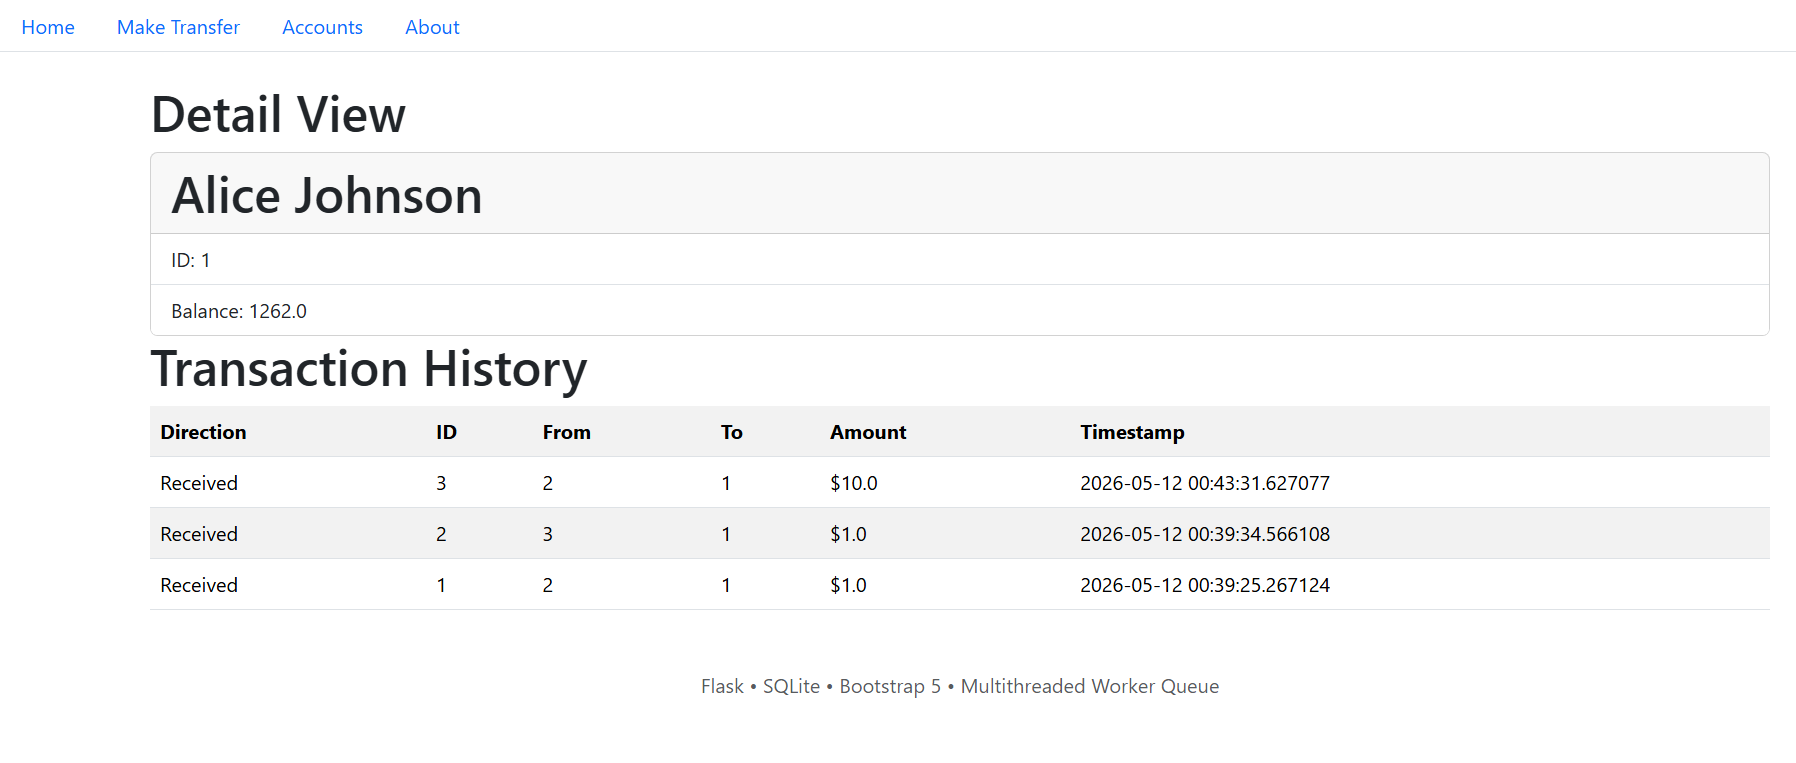
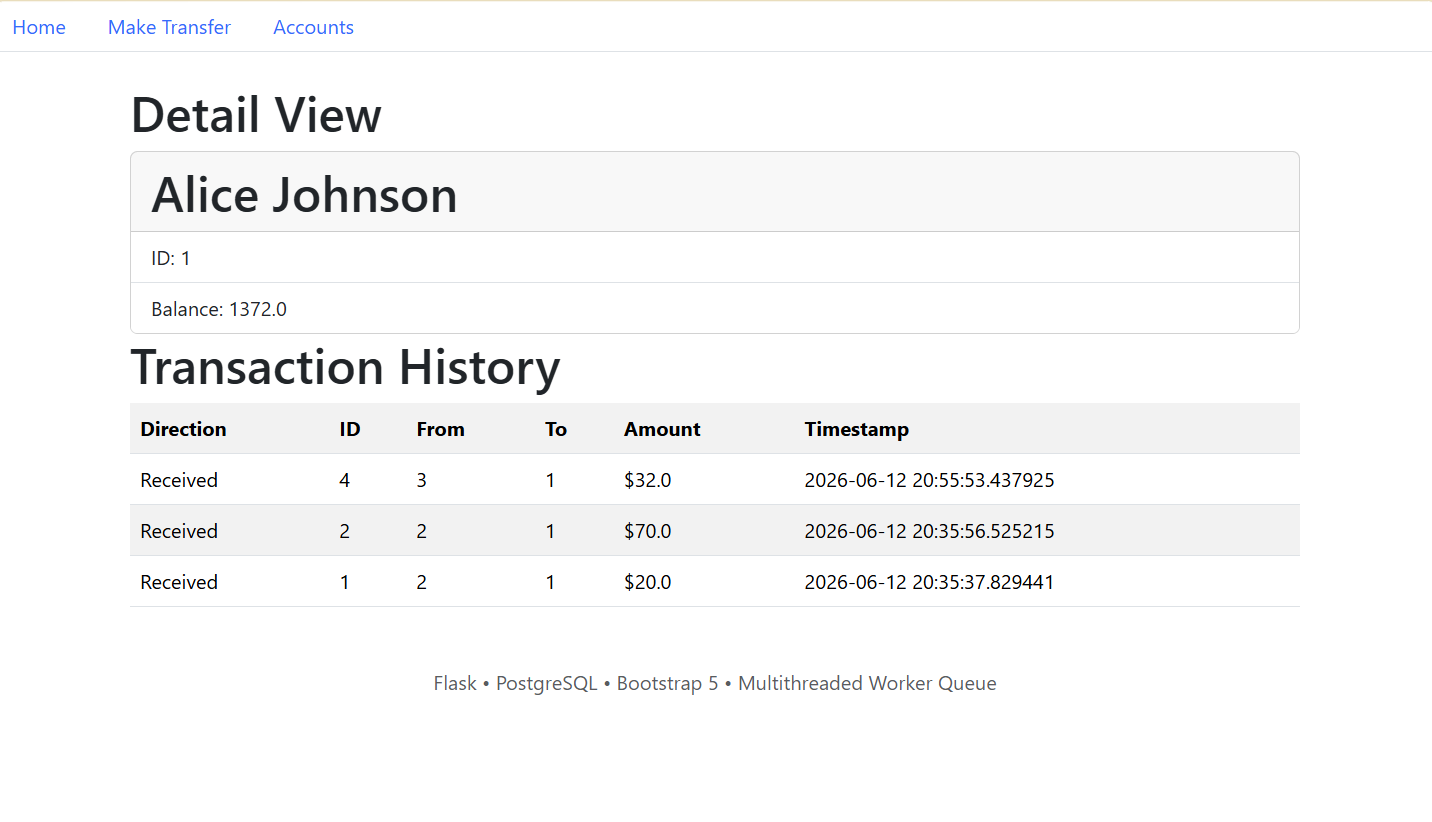
updated README and templates

diff --git a/templates/home.html b/templates/home.html
@@ -5,7 +5,7 @@
         <h1 class="display-4">Asynchronous Banking Transaction System Showcase</h1>
     </div>
     <p class="lead">
-        This project demonstrates the asynchronous backend banking transaction system made with
+        A demonstration of the asynchronous backend banking transaction system made with
         Flask, PostgreSQL, and Python multithreading and queues.
     </p>
 {% endblock %}

diff --git a/templates/base.html b/templates/base.html
@@ -31,6 +31,6 @@
         </div>
     </body>
     <footer class="text-center mt-5 mb-3 text-muted">
-        Flask • SQLite • Bootstrap 5 • Multithreaded Worker Queue
+        Flask • PostgreSQL • Bootstrap 5 • Multithreaded Worker Queue
     </footer>
 </html>

diff --git a/README.md b/README.md
@@ -4,15 +4,15 @@ Live Demo: [Click Here](https://asyncflaskbankdemo.onrender.com)
 This full-stack Flask application features a dedicated backend service to asynchronously process transactions and is routed using Flask and Jinja2 templates to showcase a clean and responsive Bootstrap5 HTML frontend. 
 
 ## How to Run
-1. Clone repository  
-```git clone https://github.com/mchenrep/fullstackflaskapp```  
-2. Create virtual environment and install all dependencies from requirements.txt  
-```pip install requirements.txt```
-3. Initialize database and seed it  
-```python .\schema.py```  
-```python .\seed.py```  
-4. Run the Flask app  
-```python .\app.py```
+1. Clone the repository
+```git clone https://github.com/mchenrep/fullstackflaskapp.git```
+2. Build the Docker container(s)
+```docker compose up --build```
+3. Access the application
+```http://localhost:5000```
+4. Close the application (remove Docker container(s))
+```docker compose down```
+
 
 ## Screenshots
 Home:  
@@ -28,26 +28,13 @@ Transfer:
 Account Details:  
 ![Account Detail View](screenshots/detailview.png)  
 
-## Features
-- Asynchronous transaction processing  
-- Worker thread queue system  
-- Account lookup and transaction history  
-- Basic transaction validation  
-- Flask/Jinja2 Frontend  
-- Bootstrap5 Responsive UI  
-- SQLite persistence  
 
-## System Design
-The request flow looks something like:  
-```
-Flask recieves request for transfer and validates input -> request gets added to queue -> worker thread processes transaction (further validation occurs) -> SQLite database gets updated -> transaction history and account details reflected in UI   
-```
 
 ## Technology Used
 Backend:  
 - Python  
 - Flask  
-- SQLite  
+- PostgreSQL 
 - threading (Thread, Lock), queue (Queue)  
   
 Frontend:  
@@ -55,27 +42,27 @@ Frontend:
 - Jinja2  
 - Bootstrap 5  
 
+Containerization:
+- Docker
+
 ## Database Design
 There are 2 tables, accounts and transactions.  
 
 Accounts:
-- id
+- id (PK)
 - name
 - balance
 
 Transactions:
-- id
+- id (PK)
 - to account
 - from account
 - amount
 - timestamp
 
-## Limitations/Simplified Deployment Build
-Some limitations faced during this project include an in-memory queue, using SQLite as a database (inefficient for high concurrency), and clashing between the deployment environment and the backend service. Because this is only a demo, I chose to use SQLite and an in-memory queue which was unable to be deployed in Render's stateless multiprocess environment, that is why the demo deployed on Render uses a serialized (sychronous) transaction system instead. In retrospect, I would have implemented a persistent queue system (something disk safe like Redis) and migrated my database to another relational one known for high concurrency like Postgres or MySQL. 
   
 ## Future Improvements
 If I were to improve this project for the future, here are a list of things I would implement:  
-1. Persistent queue system  
-2. Migration to a server database (such as PostgresSQL)
-3. Transaction status tracking  
-4. Authentication system + log in 
+1. Transaction status tracking  
+2. Authentication system/login 
+3. Deployment to cloud service
